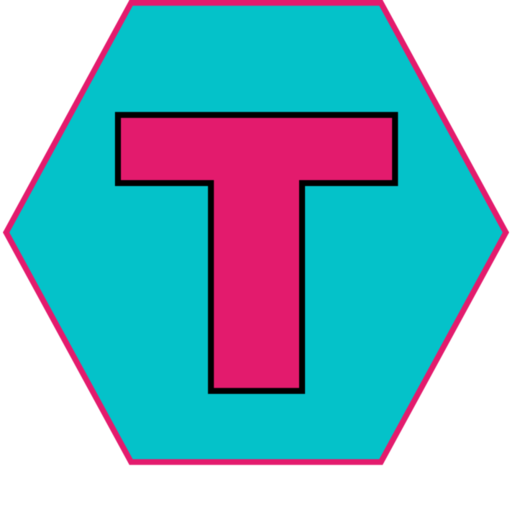
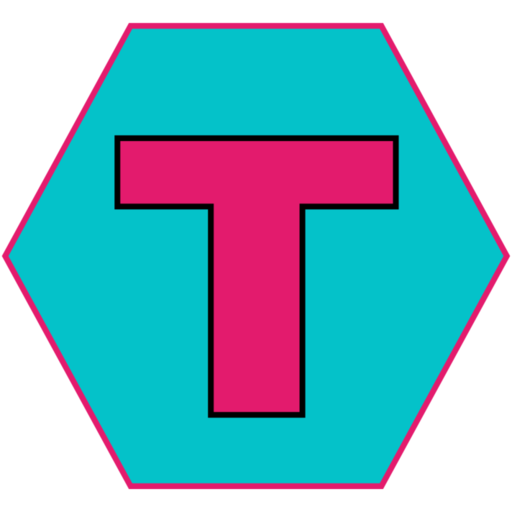
Add files via upload
Changed favicon

Changed region(s): [[0.0, 0.0, 1.0, 0.9688], [0.2188, 0.2188, 0.7812, 0.8438]]

diff --git a/index.html b/index.html
@@ -9,6 +9,14 @@
   <meta name="viewport" content="width=device-width, initial-scale=1.0">
   <link rel="stylesheet" type="text/css" href="style.css">
   <link rel="stylesheet" href="https://use.fontawesome.com/releases/v5.7.0/css/all.css" integrity="sha384-lZN37f5QGtY3VHgisS14W3ExzMWZxybE1SJSEsQp9S+oqd12jhcu+A56Ebc1zFSJ" crossorigin="anonymous"> 
+  <link rel="apple-touch-icon" sizes="180x180" href="/apple-touch-icon.png">
+  <link rel="icon" type="image/png" sizes="32x32" href="/favicon-32x32.png">
+  <link rel="icon" type="image/png" sizes="16x16" href="/favicon-16x16.png">
+  <link rel="manifest" href="/site.webmanifest">
+  <link rel="mask-icon" href="/safari-pinned-tab.svg" color="#5bbad5">
+  <meta name="msapplication-TileColor" content="#2b5797">
+  <meta name="theme-color" content="#ffffff">
+  
   <link rel="canonical" href="https://www.tonybatts.com/">
 </head>
 <body>

diff --git a/style.css b/style.css
@@ -801,7 +801,7 @@ background-color: #04C2C9;
     width: 100%;
   }
   .sticky + #about {
-  padding-top: 96px;
+  padding-top: 95px;
   }
 
 }
